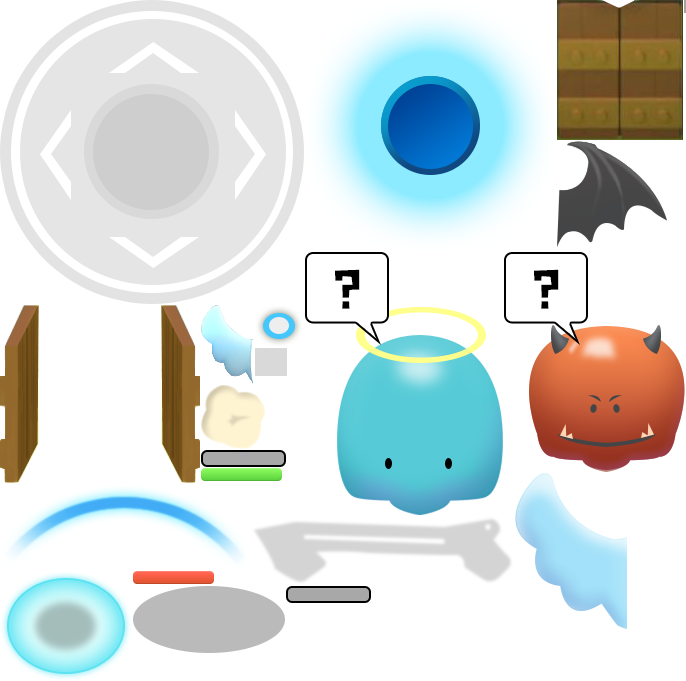
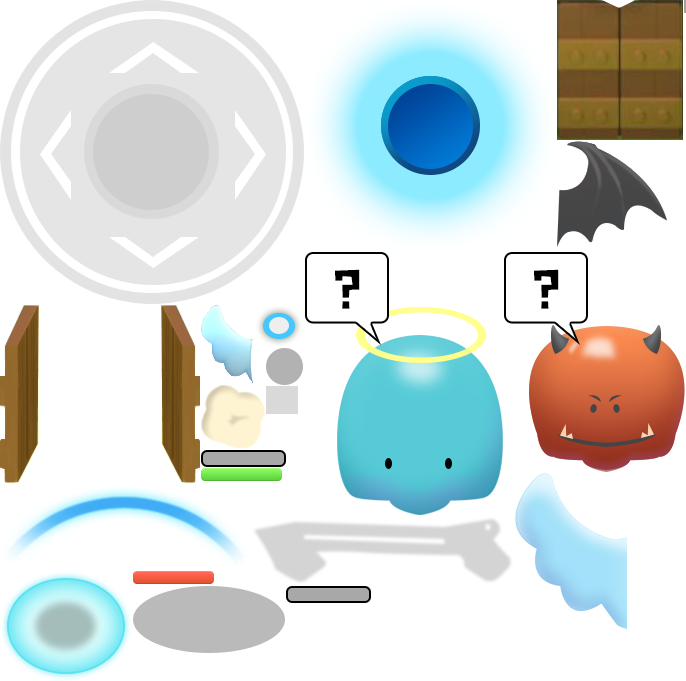
食人花的一堆球

Changed region(s): [[0.3673, 0.4934, 0.4592, 0.6167]]

diff --git a/Game3D01/src/game/ai/MonsterAI1.ts b/Game3D01/src/game/ai/MonsterAI1.ts
@@ -5,12 +5,13 @@ import GameBG from "../GameBG";
 import GamePro from "../GamePro";
 import GameProType from "../GameProType";
 import MonsterShooting from "./MonsterShooting";
+import MonsterBulletAI from "./MonsterBulletAI";
 
 //巡逻&攻击
 export default class MonsterAI1 extends GameAI {
     private pro: GamePro;
     private shooting: MonsterShooting = new MonsterShooting();
-    
+
     private aicd = 0;
     private aist = 0;
 
@@ -25,6 +26,7 @@ export default class MonsterAI1 extends GameAI {
         this.shooting.attackCd = pro.sysEnemy.enemySpeed;
         this.shooting.setBullet(pro.sysEnemy.bulletId);
         this.shooting.at = 0.4;
+        // this.aicd = this.shooting.attackCd;
         this.pro.on(Game.Event_Short, this, this.shootAc);
 
         this.aicd = this.shooting.attackCd + 100;
@@ -33,6 +35,9 @@ export default class MonsterAI1 extends GameAI {
     }
 
     shootAc(): void {
+        // this.shooting.needTime = this.shooting.attackCd;
+        // this.shooting.st = this.shooting.now + this.shooting.needTime;
+        this.aicd = this.shooting.attackCd + 100;
         if (this.pro.sysEnemy.bulletId > 0) {
             let bulletNum: number = this.pro.sysEnemy.bulletNum;
             if (bulletNum == 1) {
@@ -46,6 +51,34 @@ export default class MonsterAI1 extends GameAI {
             else if (bulletNum == 4 || bulletNum == 8) {
                 for (var i = 1; i <= bulletNum; i++) {
                     this.shooting.short_arrow(2 * Math.PI / bulletNum * i, this.pro, GameProType.MonstorArrow);
+                }
+            }
+            else {
+                let angle: number = this.pro.sysEnemy.bulletAngle;
+                angle = angle / 2;
+                bulletNum = 15 + Math.ceil(Math.random() * 5);
+                this.aicd = 4500;
+                if (1 - Math.random() > 0.5)  {
+                    for (let i = 0; i < bulletNum; i++) {
+                        setTimeout(() => {
+                            let flag: number = i % 2 == 0 ? 1 : -1;
+                            let tmp: number = (angle * Math.random()) / 180 * Math.PI * flag;
+                            this.shooting.short_arrow(this.pro.face3d + tmp, this.pro, GameProType.MonstorArrow, (Math.random() > 0.5 ? 1 : -1) * 200 * Math.random());
+                        }, Math.random() * 1000 + 200);
+                    }
+                }
+                else {
+                    let gg = (angle * 0.5) / 180 * Math.PI;
+                    for (let i = 0; i < 5; i++) {
+                        setTimeout(() => {
+                            this.shooting.short_arrow(this.pro.face3d - gg * 2, this.pro, GameProType.MonstorArrow);
+                            this.shooting.short_arrow(this.pro.face3d - gg, this.pro, GameProType.MonstorArrow);
+                            this.shooting.short_arrow(this.pro.face3d, this.pro, GameProType.MonstorArrow);
+                            this.shooting.short_arrow(this.pro.face3d + gg, this.pro, GameProType.MonstorArrow);
+                            this.shooting.short_arrow(this.pro.face3d + gg * 2, this.pro, GameProType.MonstorArrow);
+                        }, i * 500);
+
+                    }
                 }
             }
         }
@@ -102,15 +135,15 @@ export default class MonsterAI1 extends GameAI {
             this.run_ = false;
             this.aiCount++;
             //if (this.aiCount % 5 != 0) {
-                this.shooting.now = now;
-                if (this.shooting.attackOk()) {
-                    var a: number = GameHitBox.faceTo3D(this.pro.hbox, Game.hero.hbox);
-                    this.pro.rotation(a);
-                    this.shooting.starAttack(this.pro, GameAI.NormalAttack);
-                    //return true;
-                    this.aist = now + this.aicd;
-                }
-           // } else {
+            this.shooting.now = now;
+            // if (this.shooting.attackOk()) {
+            var a: number = GameHitBox.faceTo3D(this.pro.hbox, Game.hero.hbox);
+            this.pro.rotation(a);
+            this.shooting.starAttack(this.pro, GameAI.NormalAttack);
+            //return true;
+            this.aist = now + this.aicd;
+            // }
+            // } else {
             //     var a: number = GameHitBox.faceTo3D(this.pro.hbox, Game.hero.hbox);
             //     this.pro.rotation(a);
             //     //Laya.stage.frameLoop(1,this,this.go);

diff --git a/Game3D01/src/game/GamePro.ts b/Game3D01/src/game/GamePro.ts
@@ -12,6 +12,7 @@ import SysEnemy from "../main/sys/SysEnemy";
 import SysBullet from "../main/sys/SysBullet";
 import { GameAI } from "./ai/GameAI";
 import { GameMove } from "./move/GameMove";
+import { ui } from "./../ui/layaMaxUI";
 
 export default class GamePro extends Laya.EventDispatcher {
     public curLen: number;
@@ -40,6 +41,7 @@ export default class GamePro extends Laya.EventDispatcher {
 
     private _bloodUI: Blood;
     private _footCircle: FootCircle;
+    private _bulletShadow:ui.test.BulletShadowUI;
     private rotationEulerY: number = 0;
     /**关键帧比例0.0-1.0 */
     private keyNum: number = -1;//关键帧比例0.0-1.0
@@ -50,6 +52,17 @@ export default class GamePro extends Laya.EventDispatcher {
         this.gamedata_ = new GameData();
         this.gamedata_.proType = proType_;
         this.rotationEulerY = 0;
+
+        if(this.gamedata_.proType == GameProType.MonstorArrow)
+        {
+            this._bulletShadow = new ui.test.BulletShadowUI();
+            Game.footLayer.addChild(this._bulletShadow);
+            this._bulletShadow.scale(0.5,0.5);
+        }
+    }
+
+    public removeShodow():void{
+        this._bulletShadow && this._bulletShadow.removeSelf();
     }
 
     public get bloodUI(): Blood {
@@ -207,6 +220,14 @@ export default class GamePro extends Laya.EventDispatcher {
         this.acstr_ = actionstr;
         this.ani_.play(actionstr);
 
+        if(this.gamedata_.proType == GameProType.RockGolem_Blue)
+        {
+            if(actionstr == "Idle")
+            {
+                console.log("怪的动作",actionstr);
+            }
+        }
+
         if (actionstr == GameAI.NormalAttack && this.gamedata_.proType == GameProType.Hero) {
             setTimeout(() => {
                 let eff: Laya.Sprite3D = Laya.loader.getRes("h5/gunEffect/hero.lh");
@@ -359,6 +380,7 @@ export default class GamePro extends Laya.EventDispatcher {
         }
         this._bloodUI && this._bloodUI.pos(this.hbox_.cx, this.hbox_.cy - 90);
         this._footCircle && this._footCircle.pos(this.hbox_.cx, this.hbox_.cy);
+        this._bulletShadow && this._bulletShadow.pos(this.hbox_.cx, this.hbox_.cy);
 
         //脚下的烟雾
         if (this.gamedata.proType == GameProType.Hero) {

diff --git a/Game3D01/src/game/ai/MonsterShooting.ts b/Game3D01/src/game/ai/MonsterShooting.ts
@@ -14,6 +14,9 @@ export default class MonsterShooting {
     public scd: number = 0;
     /**攻击CD*/
     public attackCd: number = 1200;
+
+    // public needTime:number = 0;
+
     /**下次攻击时间*/
     public st: number = 0;
     /**当前时间*/
@@ -54,14 +57,14 @@ export default class MonsterShooting {
         return gp;
     }
 
-    public short_arrow(r_: number, pro: GamePro, proType_: number) {
+    public short_arrow(r_: number, pro: GamePro, proType_: number,range:number = 0) {
         var bo = this.getBullet(proType_);
         bo.sp3d.transform.localPositionY = 0.1;
         bo.setXY2D(pro.pos2.x, pro.pos2.z);
         bo.setSpeed(this._sysBullet.bulletSpeed);
         bo.rotation(r_);
         bo.curLen = 0;
-        bo.moveLen = Math.sqrt((bo.hbox.cy - Game.hero.hbox.cy) * (bo.hbox.cy - Game.hero.hbox.cy) + (bo.hbox.cx - Game.hero.hbox.cx) * (bo.hbox.cx - Game.hero.hbox.cx));
+        bo.moveLen = range + Math.sqrt((bo.hbox.cy - Game.hero.hbox.cy) * (bo.hbox.cy - Game.hero.hbox.cy) + (bo.hbox.cx - Game.hero.hbox.cx) * (bo.hbox.cx - Game.hero.hbox.cx));
         (bo.sp3d.getChildAt(0) as Laya.Sprite3D).transform.localRotationEulerY = -bo.sp3d.transform.localRotationEulerY;
         bo.gamedata.bounce = pro.gamedata.bounce;
         Game.layer3d.addChild(bo.sp3d);
@@ -75,8 +78,7 @@ export default class MonsterShooting {
 
     public starAttack(pro: GamePro, acstr: string): boolean {
         this.pro = pro;
-        if (this.attackOk()) {
-            this.st = this.now + this.attackCd;
+        // if (this.attackOk()) {
             this.scd = 0;
             pro.play(acstr);
             // if (this.at > 0) {
@@ -85,8 +87,8 @@ export default class MonsterShooting {
                 this.ac0();
             // }
             return true;
-        }
-        return false;
+        // }
+        // return false;
     }
 
     public cancelAttack(): void {

diff --git a/Game3D01/src/ui/layaMaxUI.ts b/Game3D01/src/ui/layaMaxUI.ts
@@ -26,6 +26,15 @@ export module ui.test {
         }
     }
     REG("ui.test.BloodUIUI",BloodUIUI);
+    export class BulletShadowUI extends View {
+        public static  uiView:any ={"type":"View","props":{"width":0,"height":0},"compId":2,"child":[{"type":"Sprite","props":{"y":-19,"x":-19,"texture":"bg/douying.png"},"compId":3}],"loadList":["bg/douying.png"],"loadList3D":[]};
+        constructor(){ super()}
+        createChildren():void {
+            super.createChildren();
+            this.createView(BulletShadowUI.uiView);
+        }
+    }
+    REG("ui.test.BulletShadowUI",BulletShadowUI);
     export class equipUI extends View {
 		public bg:Laya.Image;
         public static  uiView:any ={"type":"View","props":{"width":750,"height":1334,"centerY":0},"compId":2,"child":[{"type":"Box","props":{"height":1700,"centerY":0},"compId":21,"child":[{"type":"Image","props":{"y":0,"x":0,"var":"bg","skin":"main/zhudi.jpg"},"compId":3,"child":[{"type":"Image","props":{"y":1223,"x":0,"skin":"main/zhudi.jpg"},"compId":20}]}]},{"type":"Label","props":{"width":200,"text":"装备","height":50,"fontSize":40,"color":"#40f108","centerY":0,"centerX":0,"bold":true,"align":"center"},"compId":19}],"loadList":["main/zhudi.jpg"],"loadList3D":[]};

diff --git a/Game3D01/src/script/GameUI2.ts b/Game3D01/src/script/GameUI2.ts
@@ -134,7 +134,7 @@ export default class GameUI2 extends ui.test.TestSceneUI {
         // var gpro = new GamePro(GameProType.RockGolem_Blue);
         // gpro.setSp3d(sp);
         // Game.e0_ = gpro;
-
+        var isHasBoss:boolean = false;
         var monster: GamePro;
         let k: number = 0;
         for (let j = 0; j < GameBG.hnum; j++) {
@@ -160,6 +160,10 @@ export default class GameUI2 extends ui.test.TestSceneUI {
                         monster.setXY2DBox(GameBG.ww * i + (GameBG.ww - GameBG.mw) / 2, j * GameBG.ww + (GameBG.ww - GameBG.mw) / 2);
                         monster.startAi();
                         monster.setUI();
+                        if(!isHasBoss)
+                        {
+                            isHasBoss = monster.sysEnemy.isBoss == 1;
+                        }
                     }
                 }
                 k++;
@@ -170,7 +174,7 @@ export default class GameUI2 extends ui.test.TestSceneUI {
             Game.e0_ = monster;
         }
 
-        Game.bg.drawR(true);
+        Game.bg.drawR(isHasBoss);
 
         sp = Laya.loader.getRes("h5/bullets/20001/monster.lh");
         var gpro = new GamePro(GameProType.HeroArrow);

diff --git a/Game3D01/src/game/ai/MonsterBulletAI.ts b/Game3D01/src/game/ai/MonsterBulletAI.ts
@@ -2,7 +2,6 @@ import GamePro from "../GamePro";
 import { GameAI } from "./GameAI";
 
 export default class MonsterBulletAI extends GameAI {
-
     private pro: GamePro;
     constructor(pro: GamePro) {
         super();
@@ -29,6 +28,7 @@ export default class MonsterBulletAI extends GameAI {
             this.pro.stopAi();
             if (this.pro.sp3d.parent) {
                 this.pro.sp3d.parent.removeChild(this.pro.sp3d);
+                this.pro.removeShodow();
             }
             return false;
         }

diff --git a/Game3D01/src/main/scene/battle/BattleLoader.ts b/Game3D01/src/main/scene/battle/BattleLoader.ts
@@ -23,7 +23,7 @@ export default class BattleLoader {
         let configArr: string[] = sysMap.stageGroup.split(',');
         let configId: number = Number(configArr[Math.floor(configArr.length * Math.random())]);
         this._configId = configId;
-        // this._configId = 100104;
+        // this._configId = 101003;
         Laya.loader.load("h5/mapConfig/" + this._configId + ".json", new Laya.Handler(this, this.onLoadRes));
     }
 
